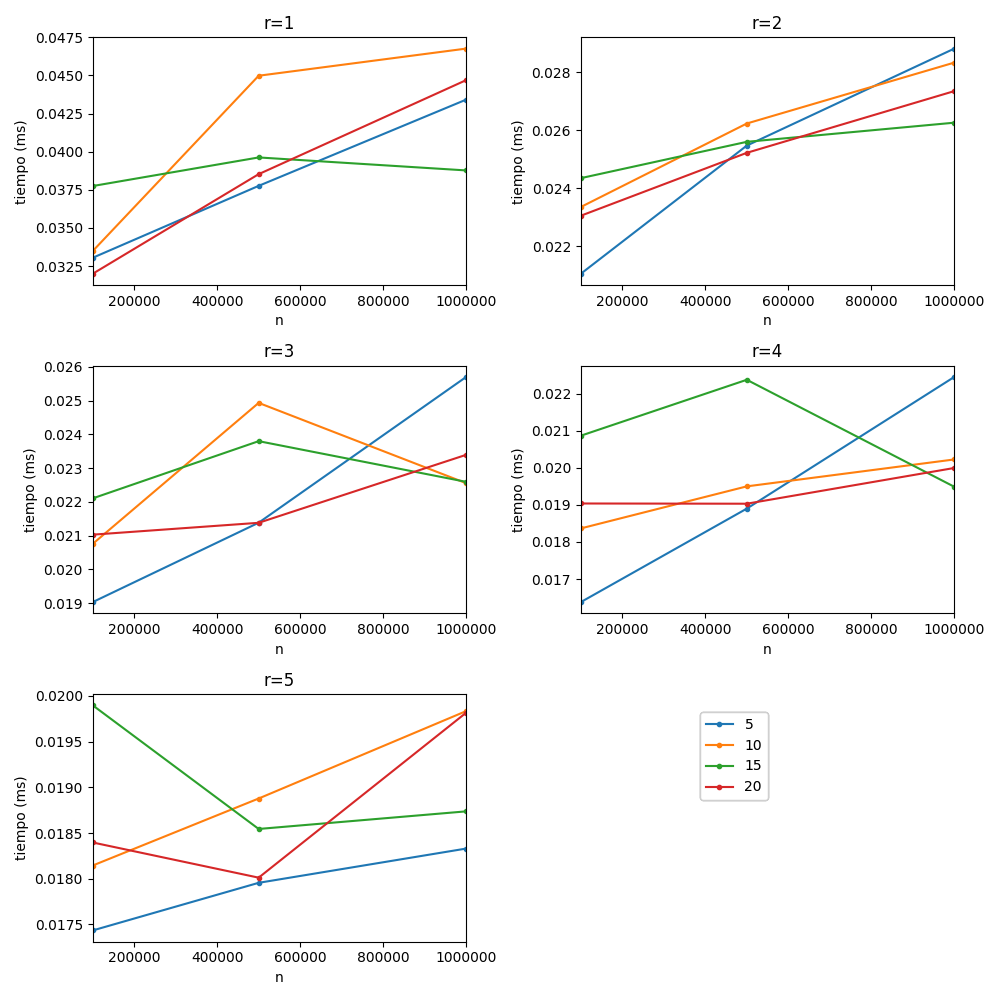
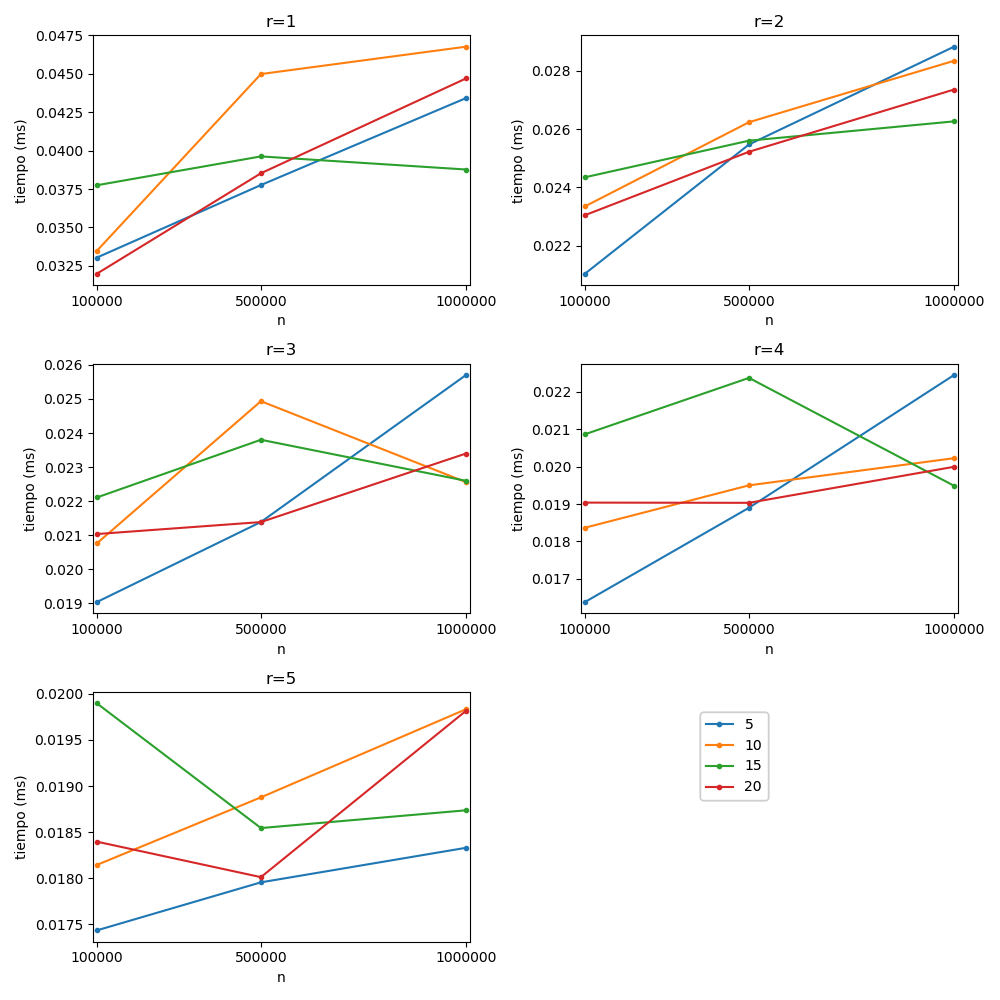
Margen

diff --git a/analisis.py b/analisis.py
@@ -34,8 +34,9 @@ if __name__ == '__main__':
             .pivot(index='n', columns='k', values='tiempo')
             .plot(style='.-', ax=ax)
         )
-        # ax.set_xlim([4,21])
+        ax.set_xlim([10**5 - 10**4, 10**6 + 10**4])
         ax.set_ylabel('tiempo (ms)')
+        ax.set_xticks([10**5, 5 * 10**5, 10**6])
         ax.margins(.05)
         ax.title.set_text(f'r={r}')
         ax.get_legend().remove()
@@ -55,8 +56,9 @@ if __name__ == '__main__':
             .pivot(index='n', columns='k', values='tiempo')
             .plot(style='.-', ax=ax)
         )
-        # ax.set_xlim([4,21])
+        ax.set_xlim([10**5 - 10**4, 10**6 + 10**4])
         ax.set_ylabel('tiempo (ms)')
+        ax.set_xticks([10**5, 5 * 10**5, 10**6])
         ax.margins(.05)
         ax.title.set_text(f'r={r}')
         ax.get_legend().remove()
